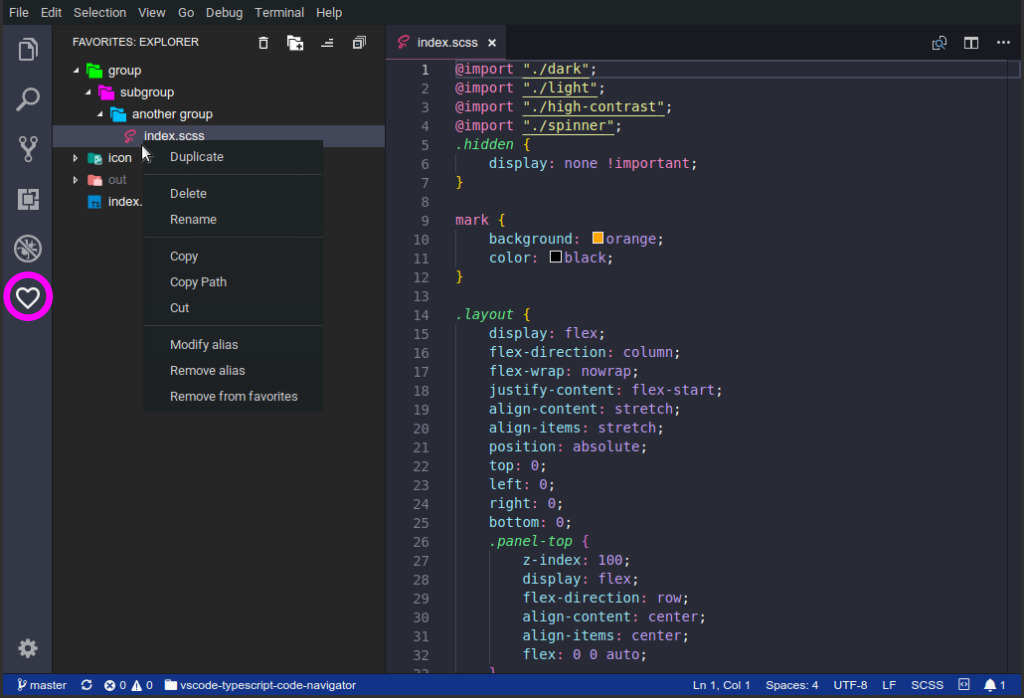
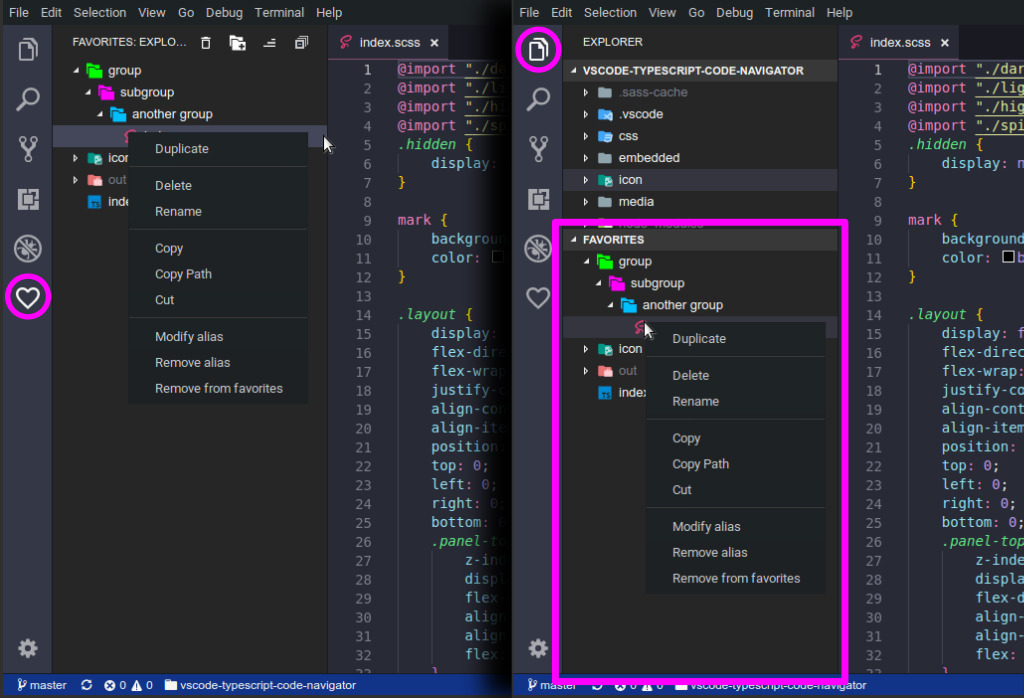
readme

diff --git a/README.md b/README.md
@@ -22,21 +22,22 @@ Time saver for complex projects.
     - rename file/directory
     - duplicate file/directory
 - favorite items can have alias (different label)
+- items accesible via activity bar or as File explorer subview (see [Using Favorites explorer section](#using_favorites)</em>)
 
 
 ## Adding to favorites
 <p align="center">
-   <img  src="https://raw.githubusercontent.com/kdcro101/vscode-favorite-items/master/preview/adding.jpg?12123" />
+   <img  src="https://raw.githubusercontent.com/kdcro101/vscode-favorite-items/master/preview/adding.jpg?121233" />
 </p>
 
 - to add file/directory to favorites, right-click item in file explorer and select:
 - `add to favorites` - to add item to root of favorites tree.
 - `add to group of favorites` to add item to group of favorites you previously created.
- 
-## Using Favorites explorer
 
+ 
+##  <a name="using_favorites"></a><a name="user-content-using_favorites"></a> Using Favorites explorer
 <p align="center">
-   <img  src="https://raw.githubusercontent.com/kdcro101/vscode-favorite-items/master/preview/using.jpg" />
+   <img  src="https://raw.githubusercontent.com/kdcro101/vscode-favorite-items/master/preview/using.jpg?2323" />
 </p>
 
  

diff --git a/CHANGELOG.md b/CHANGELOG.md
@@ -1,3 +1,8 @@
+## 1.9.4 | 2018/09/18
+
+- README 
+- activity bar icon name change (caching problem - full restart was required)
+
 ## 1.9.3 | 2018/09/18
 
 - remove unicode characters from context menu when adding to favorites
